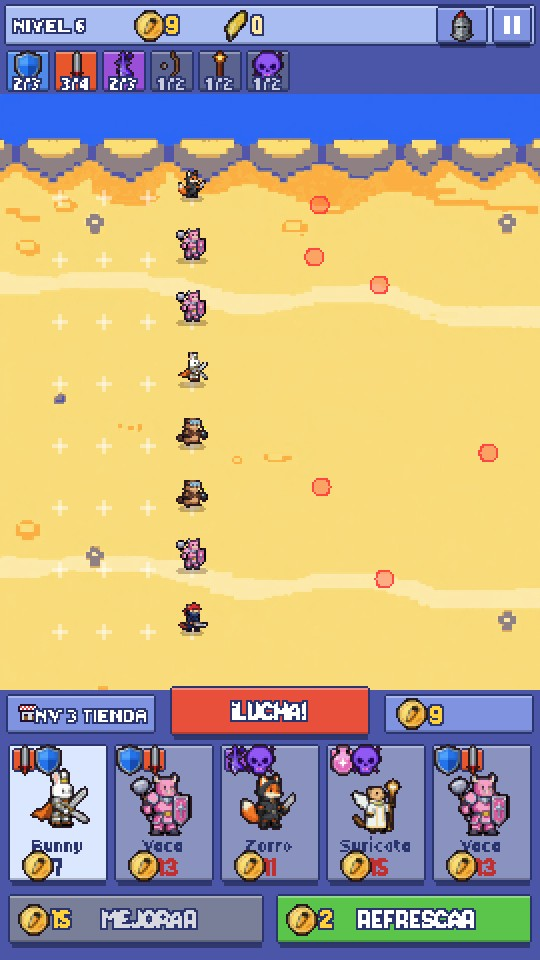
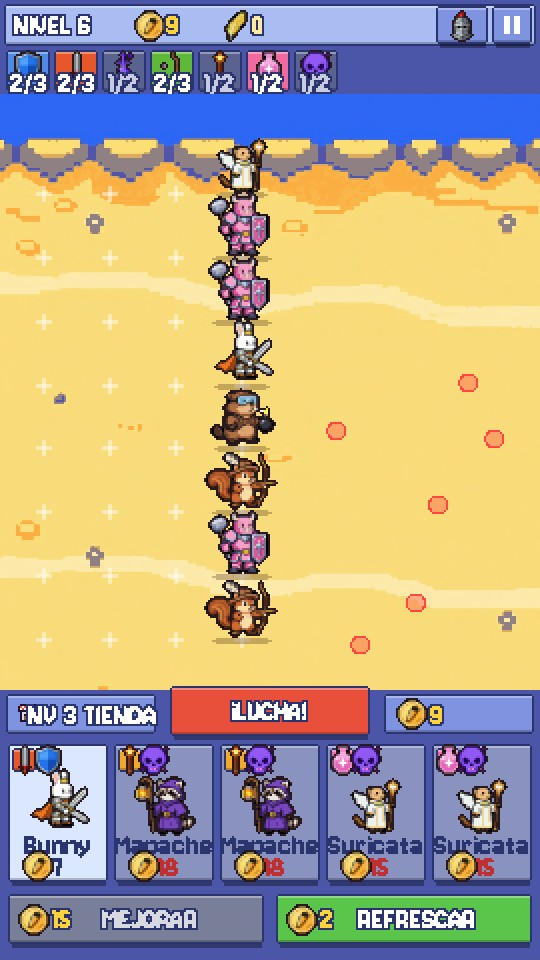
alfa 1324326: Fans of Asalto: llena toda la pantalla del móvil, muñecos y fondos de Yoshi a su

diff --git a/alfa/demos/asalto/css/asalto.css b/alfa/demos/asalto/css/asalto.css
@@ -16,10 +16,10 @@ body { background: #343c80; display: flex; align-items: center; justify-content:
 /* el contorno de pixel art del texto y los paneles con esquinas cortadas */
 .as-btn, .as-btn2, .as-tarjeta, .as-lema, .as-zona, .as-reliq, .as-guia {
   clip-path: polygon(4px 0, calc(100% - 4px) 0, 100% 4px, 100% calc(100% - 4px), calc(100% - 4px) 100%, 4px 100%, 0 calc(100% - 4px), 0 4px); }
-.as-btn, .as-btn2 { border: 0; padding: 12px 24px 14px; font-size: 24px; line-height: 1; min-width: 200px; background: var(--as-rojo);
+.as-btn, .as-btn2 { border: 0; padding: 12px 24px 14px; font-size: 31px; line-height: 1; min-width: 200px; background: var(--as-rojo);
   box-shadow: inset 0 0 0 3px var(--as-tinta), inset 0 6px 0 rgba(255, 255, 255, 0.3), inset 0 -8px 0 rgba(0, 0, 0, 0.25);
   text-shadow: 2px 0 0 var(--as-tinta), -2px 0 0 var(--as-tinta), 0 2px 0 var(--as-tinta), 0 -2px 0 var(--as-tinta), 2px 2px 0 var(--as-tinta), -2px -2px 0 var(--as-tinta), 2px -2px 0 var(--as-tinta), -2px 2px 0 var(--as-tinta); }
-.as-btn2 { font-size: 19px; padding: 10px 18px 12px; min-width: 150px; background: var(--as-verde); }
+.as-btn2 { font-size: 25px; padding: 10px 18px 12px; min-width: 150px; background: var(--as-verde); }
 .as-azul { background: var(--as-azul) !important; } .as-oro { background: #e8a81a !important; } .as-verde { background: var(--as-verde) !important; }
 .as-rojo { background: var(--as-rojo) !important; } .as-gris { background: #6a6f9a !important; }
 .as-btn:active, .as-btn2:active { transform: translateY(3px); }
@@ -33,28 +33,28 @@ body { background: #343c80; display: flex; align-items: center; justify-content:
 .as-logo { margin: 0 0 8px; font-size: 76px; line-height: 0.9; letter-spacing: 2px; text-align: center; color: var(--as-oro);
   text-shadow: 4px 0 0 var(--as-tinta), -4px 0 0 var(--as-tinta), 0 4px 0 var(--as-tinta), 0 -4px 0 var(--as-tinta), 4px 4px 0 var(--as-tinta), -4px -4px 0 var(--as-tinta), 4px -4px 0 var(--as-tinta), -4px 4px 0 var(--as-tinta), 0 10px 0 var(--as-tinta); }
 .as-logo small { display: block; font-size: 30px; color: #fff; letter-spacing: 6px; }
-.as-lema { margin: 0 0 8px; font-weight: 400; font-size: 17px; background: var(--as-panel); box-shadow: inset 0 0 0 3px var(--as-tinta); padding: 8px 16px 10px; }
+.as-lema { margin: 0 0 8px; font-weight: 400; font-size: 22px; background: var(--as-panel); box-shadow: inset 0 0 0 3px var(--as-tinta); padding: 8px 16px 10px; }
 .as-menu { display: grid; grid-template-columns: 1fr 1fr; gap: 10px; margin-top: 6px; }
 .as-pie { position: absolute; bottom: 120px; left: 0; right: 0; display: flex; justify-content: center; align-items: center; gap: 16px; }
-.as-gemas { display: inline-flex; align-items: center; gap: 6px; font-size: 22px; background: var(--as-fondo); padding: 8px 14px; box-shadow: inset 0 0 0 3px var(--as-tinta); }
+.as-gemas { display: inline-flex; align-items: center; gap: 6px; font-size: 29px; background: var(--as-fondo); padding: 8px 14px; box-shadow: inset 0 0 0 3px var(--as-tinta); }
 /* las ventanas */
 .as-modal { position: absolute; inset: 0; display: flex; align-items: center; justify-content: center; padding: 16px; box-sizing: border-box; background: rgba(10, 10, 40, 0.6); pointer-events: auto; z-index: 30; }
-.as-tarjeta { width: 100%; max-width: 480px; max-height: 900px; overflow: auto; background: var(--as-panel); box-shadow: inset 0 0 0 4px var(--as-tinta), inset 0 8px 0 rgba(255, 255, 255, 0.25), inset 0 -10px 0 rgba(0, 0, 0, 0.2); padding: 20px 20px 24px; box-sizing: border-box; text-align: center; font-size: 18px; color: #fff; }
+.as-tarjeta { width: 100%; max-width: 480px; max-height: 900px; overflow: auto; background: var(--as-panel); box-shadow: inset 0 0 0 4px var(--as-tinta), inset 0 8px 0 rgba(255, 255, 255, 0.25), inset 0 -10px 0 rgba(0, 0, 0, 0.2); padding: 20px 20px 24px; box-sizing: border-box; text-align: center; font-size: 23px; color: #fff; }
 .as-tarjeta h2 { margin: 0 0 10px; font-size: 30px; color: var(--as-oro); text-shadow: 3px 0 0 var(--as-tinta), -3px 0 0 var(--as-tinta), 0 3px 0 var(--as-tinta), 0 -3px 0 var(--as-tinta), 3px 3px 0 var(--as-tinta), -3px -3px 0 var(--as-tinta); }
 .as-tarjeta p { margin: 8px 0; text-shadow: 2px 2px 0 var(--as-tinta); }
-.as-sub { font-size: 15px; opacity: 0.9; }
+.as-sub { font-size: 20px; opacity: 0.9; }
 .as-ancha { max-width: 500px; }
 .as-ancha .opt-list { text-align: left; margin-top: 14px; }
 .as-cofre { display: flex; justify-content: center; margin: 6px 0; }
-.as-premio { font-size: 20px; }
+.as-premio { font-size: 26px; }
 .as-mas { color: var(--as-oro); font-size: 30px; }
 .as-zonas { display: grid; gap: 10px; margin: 10px 0 14px; }
-.as-zona { border: 0; padding: 14px; background: var(--as-panel2); box-shadow: inset 0 0 0 3px var(--as-tinta); text-align: left; display: grid; gap: 4px; font-size: 20px; }
-.as-zona small { font-size: 14px; opacity: 0.9; font-weight: 500; }
+.as-zona { border: 0; padding: 14px; background: var(--as-panel2); box-shadow: inset 0 0 0 3px var(--as-tinta); text-align: left; display: grid; gap: 4px; font-size: 26px; }
+.as-zona small { font-size: 18px; opacity: 0.9; font-weight: 500; }
 .as-zona.cerrada { background: #4a4f7a; opacity: 0.75; }
 .as-reliqs { display: grid; grid-template-columns: repeat(3, 1fr); gap: 8px; margin: 10px 0; }
-.as-reliq { border: 0; padding: 10px 6px 12px; background: var(--as-claro); color: var(--as-tinta) !important; box-shadow: inset 0 0 0 3px var(--as-tinta); display: grid; justify-items: center; gap: 6px; font-size: 15px; }
-.as-reliq small { font-size: 13px; font-weight: 500; line-height: 1.2; }
+.as-reliq { border: 0; padding: 10px 6px 12px; background: var(--as-claro); color: var(--as-tinta) !important; box-shadow: inset 0 0 0 3px var(--as-tinta); display: grid; justify-items: center; gap: 6px; font-size: 20px; }
+.as-reliq small { font-size: 17px; font-weight: 500; line-height: 1.2; }
 .as-reliq:active { transform: translateY(3px); }
 .as-datos { list-style: none; padding: 0; margin: 12px 0; display: grid; gap: 4px; }
 .as-niveles { list-style: none; padding: 0; margin: 10px 0; display: grid; gap: 6px; text-align: left; }
@@ -68,42 +68,42 @@ body { background: #343c80; display: flex; align-items: center; justify-content:
 .as-ad-cartel { display: inline-block; background: var(--as-oro); color: var(--as-tinta); padding: 4px 10px; font-weight: 400; }
 .as-ad-barra { height: 14px; background: var(--as-tinta); margin: 14px 0; padding: 3px; }
 .as-ad-barra i { display: block; height: 100%; width: 0; background: var(--as-oro); transition: width 0.9s steps(6); }
-.as-enlace { display: block; margin: 10px auto 6px; background: none; border: 0; text-decoration: underline; font-size: 15px; }
-.as-anuncio small { display: block; font-size: 12px; opacity: 0.8; }
+.as-enlace { display: block; margin: 10px auto 6px; background: none; border: 0; text-decoration: underline; font-size: 20px; }
+.as-anuncio small { display: block; font-size: 16px; opacity: 0.8; }
 /* la guía (MeerCat) */
 .as-guia { position: absolute; left: 10px; right: 10px; top: 470px; display: flex; gap: 10px; align-items: center; text-align: left; border: 0; padding: 10px 14px; background: #fff8e6; color: var(--as-tinta) !important;
-  box-shadow: inset 0 0 0 3px var(--as-tinta); font-size: 20px; font-weight: 400 !important; z-index: 20; }
+  box-shadow: inset 0 0 0 3px var(--as-tinta); font-size: 26px; font-weight: 400 !important; z-index: 20; }
 .as-guia.sale { animation: as-guia 0.3s steps(3); }
 @keyframes as-guia { from { transform: translateY(20px); opacity: 0; } to { transform: none; opacity: 1; } }
 #as-guia-cara { flex: none; width: 64px; height: 64px; }
 /* el equipo, la herrería, los logros y la tienda de fuera */
 .as-equipo { display: grid; grid-template-columns: 1fr 1fr; gap: 10px; align-items: start; }
 .as-huecos { display: grid; grid-template-columns: repeat(3, 1fr); gap: 6px; }
-.as-obj { border: 0; padding: 6px 4px; background: var(--as-claro); color: var(--as-tinta) !important; box-shadow: inset 0 0 0 3px var(--as-tinta); display: grid; justify-items: center; gap: 2px; font-size: 13px; line-height: 1.1; min-height: 78px; font-family: inherit; }
+.as-obj { border: 0; padding: 6px 4px; background: var(--as-claro); color: var(--as-tinta) !important; box-shadow: inset 0 0 0 3px var(--as-tinta); display: grid; justify-items: center; gap: 2px; font-size: 17px; line-height: 1.1; min-height: 78px; font-family: inherit; }
 .as-obj.r1 { box-shadow: inset 0 0 0 3px #2a6fd0; background: #cfe3ff; } .as-obj.r2 { box-shadow: inset 0 0 0 3px #8a2ad0; background: #e8cfff; }
 .as-obj.vacio { background: rgba(255, 255, 255, 0.18); box-shadow: inset 0 0 0 3px rgba(42, 53, 112, 0.5); color: #fff !important; }
 .as-obj small { font-weight: 400; } .as-obj .as-stat { color: #1d6b2a; }
 .as-obj:active { transform: translateY(3px); }
 .as-objs { display: flex; gap: 6px; justify-content: center; }
 .as-objs .as-obj { width: 110px; }
-.as-stats { list-style: none; padding: 0; margin: 0; display: grid; gap: 3px; text-align: left; font-size: 15px; }
+.as-stats { list-style: none; padding: 0; margin: 0; display: grid; gap: 3px; text-align: left; font-size: 20px; }
 .as-stats li { display: flex; justify-content: space-between; background: var(--as-panel2); padding: 4px 8px; box-shadow: inset 0 0 0 2px var(--as-tinta); }
 .as-mochila { display: grid; grid-template-columns: repeat(4, 1fr); gap: 6px; margin: 8px 0; }
 .as-forja { display: grid; grid-template-columns: 120px 1fr; gap: 10px; align-items: center; margin: 8px 0; background: var(--as-panel2); padding: 8px; box-shadow: inset 0 0 0 3px var(--as-tinta); }
 .as-forja-txt { display: grid; gap: 6px; }
-.as-logros { list-style: none; padding: 0; margin: 10px 0; display: grid; gap: 6px; text-align: left; font-size: 16px; }
+.as-logros { list-style: none; padding: 0; margin: 10px 0; display: grid; gap: 6px; text-align: left; font-size: 21px; }
 .as-logros li { display: flex; justify-content: space-between; align-items: center; gap: 8px; background: var(--as-panel2); padding: 8px 10px; box-shadow: inset 0 0 0 3px var(--as-tinta); }
 .as-logros li.hecho { opacity: 0.55; } .as-logros li.puede { background: #3f9a3a; }
-.as-logros .as-btn2 { min-width: 0; padding: 6px 12px 8px; font-size: 16px; }
+.as-logros .as-btn2 { min-width: 0; padding: 6px 12px 8px; font-size: 21px; }
 .as-plumas { display: inline-flex; align-items: center; gap: 4px; color: #ffe9a0; }
 .as-ico-pluma { display: inline-block; width: 12px; height: 12px; background: #ffd23a; box-shadow: inset 0 0 0 2px var(--as-tinta); }
 .as-ofertas { display: grid; gap: 8px; margin: 10px 0; }
-.as-oferta { border: 0; padding: 12px; background: var(--as-claro); color: var(--as-tinta) !important; box-shadow: inset 0 0 0 3px var(--as-tinta); display: grid; grid-template-columns: 48px 1fr auto; align-items: center; gap: 10px; text-align: left; font-size: 18px; font-family: inherit; }
-.as-oferta small { grid-column: 2; font-size: 14px; } .as-oferta b { grid-column: 2; } .as-oferta i { grid-row: 1 / 3; } .as-oferta .as-plumas { grid-column: 3; grid-row: 1 / 3; color: var(--as-tinta); font-size: 22px; }
+.as-oferta { border: 0; padding: 12px; background: var(--as-claro); color: var(--as-tinta) !important; box-shadow: inset 0 0 0 3px var(--as-tinta); display: grid; grid-template-columns: 48px 1fr auto; align-items: center; gap: 10px; text-align: left; font-size: 23px; font-family: inherit; }
+.as-oferta small { grid-column: 2; font-size: 18px; } .as-oferta b { grid-column: 2; } .as-oferta i { grid-row: 1 / 3; } .as-oferta .as-plumas { grid-column: 3; grid-row: 1 / 3; color: var(--as-tinta); font-size: 29px; }
 .as-oferta:disabled { opacity: 0.6; }
 .as-aviso { box-shadow: inset 0 0 0 3px var(--as-tinta), 0 0 0 4px var(--as-oro) !important; }
-.as-quien-h { display: grid; justify-items: center; font-size: 14px; } .as-quien-h.apagado { filter: grayscale(1) brightness(0.7); }
-.as-reliq em { font-style: normal; font-size: 12px; background: var(--as-tinta); color: #fff; padding: 1px 6px; }
-.as-pie-ad { display: block; margin-top: 6px; font-size: 13px; opacity: 0.85; }
+.as-quien-h { display: grid; justify-items: center; font-size: 18px; } .as-quien-h.apagado { filter: grayscale(1) brightness(0.7); }
+.as-reliq em { font-style: normal; font-size: 16px; background: var(--as-tinta); color: #fff; padding: 1px 6px; }
+.as-pie-ad { display: block; margin-top: 6px; font-size: 17px; opacity: 0.85; }
 /* el aviso y la ventana comunes de core (ligero.js) */
-#toast { font-family: 'Jersey 10', monospace; font-size: 24px; }
+#toast { font-family: 'Jersey 10', monospace; font-size: 31px; }

diff --git a/alfa/demos/asalto/js/principal.js b/alfa/demos/asalto/js/principal.js
@@ -7,21 +7,26 @@ const AS_TOQUE = { boton: null };
 const AS_DRAG = { h: null, mov: false, x: 0, y: 0, x0: 0, y0: 0, celda: null };
 
 function asAjusta() {
-  // El juego se pinta en 270x480 y se amplía un número ENTERO de veces en píxeles reales de la pantalla: así cada píxel del dibujo
-  // ocupa exactamente 2x2, 3x3 o 4x4 píxeles del móvil y nada sale borroso. Si la pantalla es muy pequeña, se amplía lo que quepa.
+  // El juego se pinta en un lienzo pequeño de 270 de ancho y se amplía un número ENTERO de veces en píxeles reales de la pantalla:
+  // así cada píxel del dibujo ocupa exactamente 3x3, 4x4… y nada sale borroso. El ALTO se adapta al móvil (de 440 a 640 píxeles):
+  // la pantalla se llena entera y lo que sobra se lo queda la arena.
   const dpr = window.devicePixelRatio || 1, bw = document.body.clientWidth, bh = document.body.clientHeight, pad = bw < 600 ? 0 : 20;
   const maxW = (bw - pad * 2) * dpr, maxH = (bh - pad * 2) * dpr;
-  const k = Math.floor(Math.min(maxW / 270, maxH / 480));
-  let devW, devH;
-  if (k >= 2) { devW = 270 * k; devH = 480 * k; }
-  else { const s = Math.min(maxW / 270, maxH / 480); devW = Math.max(270, Math.floor(270 * s)); devH = Math.round(devW * 480 / 270); }
+  const k = Math.floor(Math.min(maxW / 270, maxH / 440));
+  let devW, devH, alto;
+  if (k >= 2) { alto = clamp(Math.floor(maxH / k), 440, 640); devW = 270 * k; devH = alto * k; }
+  else { alto = 480; const s = Math.min(maxW / 270, maxH / 480); devW = Math.max(270, Math.floor(270 * s)); devH = Math.round(devW * 480 / 270); }
   const w = devW / dpr, h = devH / dpr;
   const st = AS_ESCENARIO.style;
   st.width = w + 'px'; st.height = h + 'px';
   st.position = 'absolute';   // en un píxel entero de la pantalla, para que el navegador no lo vuelva a muestrear
   st.left = Math.round((bw - w) / 2 * dpr) / dpr + 'px'; st.top = Math.round((bh - h) / 2 * dpr) / dpr + 'px';
-  AS_V.sc = w / 540; AS_V.dpr = dpr;
+  AS_V.sc = w / 540; AS_V.dpr = dpr; AS_V.H = alto * 2;
   AS_CV.width = devW; AS_CV.height = devH;
+  AS_BUF.width = 270; AS_BUF.height = alto;
+  // el panel de abajo mide siempre lo mismo (270); la arena se estira con el resto
+  AS_Y = AS_V.H - 270; AS_ARENA.h = AS_Y - AS_ARENA.y;
+  AS_UI.style.height = AS_V.H + 'px';
   AS_UI.style.zoom = w / 540;   // zoom (no transform): el navegador vuelve a dibujar las letras a su tamaño y no las emborrona
 }
 function asLogico(e) { const r = AS_CV.getBoundingClientRect(); return [(e.clientX - r.left) / AS_V.sc, (e.clientY - r.top) / AS_V.sc]; }
@@ -94,18 +99,18 @@ document.addEventListener('keydown', e => {
 
 /* ---------- la portada (detrás del menú) ---------- */
 function asPintaPortada(c, t) {
-  c.fillStyle = '#2b2d6b'; c.fillRect(0, 0, 540, 960);
+  c.fillStyle = '#2b2d6b'; c.fillRect(0, 0, 540, AS_V.H);
   c.imageSmoothingEnabled = false;
-  if (AS_IMG.portada) { const im = AS_IMG.portada, h = im.height * 2; c.drawImage(im, 0, 0, im.width, im.height, 0, Math.min(0, 960 - h), 540, h); }
+  if (AS_IMG.portada) { const im = AS_IMG.portada, h = im.height * 2; c.drawImage(im, 0, 0, im.width, im.height, 0, Math.min(0, AS_V.H - h), 540, h); }
   // el desfile de los Animales Locos por abajo
   const lista = Object.keys(AS_HEROES).filter(asHay);
-  lista.forEach((k, i) => { const x = ((t * 40 + i * 60) % 620) - 40; asPintaMuneco(c, { tipo: k, anim: 'andar', tAnim: t + i * 0.3, lado: 'heroe', id: i, escala: 1.6 }, x, 930, t); });
+  lista.forEach((k, i) => { const x = ((t * 40 + i * 60) % 620) - 40; asPintaMuneco(c, { tipo: k, anim: 'andar', tAnim: t + i * 0.3, lado: 'heroe', id: i, escala: 1.6 }, x, AS_V.H - 30, t); });
 }
 
 /* ---------- el bucle ---------- */
 // Todo se pinta en un lienzo pequeño (270x480, la mitad) y se amplía sin suavizar: así el texto, las sombras, los giros y los
 // efectos salen con los mismos píxeles gordos que los dibujos de Yoshi. Nada se ve liso ni vectorial.
-const AS_BUF = document.createElement('canvas'); AS_BUF.width = 270; AS_BUF.height = 480;
+const AS_BUF = document.createElement('canvas'); AS_BUF.width = 270; AS_BUF.height = 480;   // el alto lo pone asAjusta
 const AS_BCTX = AS_BUF.getContext('2d');
 // En el lienzo pequeño (que se pinta con medidas de 540x960 y escala 0.5) cada rectángulo se encaja en su píxel: si cayera en medio
 // píxel, el navegador lo suavizaría y saldría un borde borroso.
@@ -149,7 +154,7 @@ function asArranque() {
   asCargaIconos();
   // las letras de píxeles: el texto se guarda ya dibujado (AS_TXT), así que hay que esperar a que lleguen; si llegan tarde, se borra lo guardado
   if (document.fonts) document.fonts.addEventListener('loadingdone', () => AS_TXT.clear());
-  const letras = document.fonts ? Promise.race([Promise.all(['16px "Jersey 10"', '32px "Jersey 10"', '10px Tiny5'].map(f => document.fonts.load(f))), new Promise(r => setTimeout(r, 2500))]) : Promise.resolve();
+  const letras = document.fonts ? Promise.race([Promise.all(['16px "Jersey 10"', '32px "Jersey 10"'].map(f => document.fonts.load(f))), new Promise(r => setTimeout(r, 2500))]) : Promise.resolve();
   asCargaImagenes(() => letras.then(() => {
     AS_TXT.clear();
     asMenu();

diff --git a/alfa/index.html b/alfa/index.html
@@ -10,10 +10,10 @@
 <link rel="preconnect" href="https://fonts.googleapis.com">
 <link rel="preconnect" href="https://fonts.gstatic.com" crossorigin>
 <link rel="stylesheet" href="https://fonts.googleapis.com/css2?family=Baloo+2:wght@600;700;800&family=Luckiest+Guy&display=swap">
-<link rel="stylesheet" href="core/css/base.css?v=25d404d">
-<link rel="stylesheet" href="biblioteca/tienda.css?v=25d404d">
-<link rel="stylesheet" href="novedades/ventana.css?v=25d404d">
-<link rel="stylesheet" href="biblioteca/votos.css?v=25d404d">
+<link rel="stylesheet" href="core/css/base.css?v=1324326">
+<link rel="stylesheet" href="biblioteca/tienda.css?v=1324326">
+<link rel="stylesheet" href="novedades/ventana.css?v=1324326">
+<link rel="stylesheet" href="biblioteca/votos.css?v=1324326">
 <style>
   /* la entrada de la web: una tarjeta por juego, con los colores y las letras de core */
   body { overflow: auto; touch-action: auto; align-items: flex-start; background-repeat: no-repeat; background-attachment: fixed; }
@@ -61,7 +61,7 @@
 </style>
 </head>
 <body>
-<script src="menu.js?v=25d404d" data-base="" data-core="1" data-pagina=""></script>
+<script src="menu.js?v=1324326" data-base="" data-core="1" data-pagina=""></script>
 <div class="nov-fondo" id="novedades" hidden>
   <div class="nov-caja" role="dialog" aria-modal="true" aria-labelledby="nov-titulo">
     <div class="nov-cabeza"><h2 class="ol" id="nov-titulo">NOVEDADES</h2><p id="nov-sub"></p></div>
@@ -339,8 +339,8 @@
   </section>
   <p class="note" id="pie-fansof">Fans Of™ · © 2026 Arkioner y Pepins · MicroBlizz · Todos los derechos reservados</p>
 </main>
-<script src="core/js/nucleo.js?v=0-a688.25d404d"></script>
-<script src="core/js/novedades.js?v=25d404d"></script>
+<script src="core/js/nucleo.js?v=0-a689.1324326"></script>
+<script src="core/js/novedades.js?v=1324326"></script>
 <script>
 // La cuenta de la web es la misma de los juegos (core/js/sistema/cuenta.js, mismo navegador = misma sesión). Aquí no hay partida que subir.
 const AJUSTES = { id: 'web', guardado: 'fansof-web' }, SAVE_KEY = AJUSTES.guardado, SAVE = {};
@@ -349,7 +349,7 @@ const HOOKS = {};
 function hook(name, fn) { (HOOKS[name] = HOOKS[name] || []).push(fn); }
 function fire(name, ...a) { let out = ''; for (const fn of HOOKS[name] || []) { const r = fn(...a); if (typeof r === 'string') out += r; } return out; }
 </script>
-<script src="core/js/sistema/cuenta.js?v=25d404d"></script>
+<script src="core/js/sistema/cuenta.js?v=1324326"></script>
 <script>NUCLEO.idiomaSolo({ en: ['core/idioma/en-raiz.js', 'novedades/en.js', 'biblioteca/en.js','games/rumble/idioma/en-7.js', 'games/td/idioma/en-2.js', 'games/survivors/idioma/en.js', 'games/crush/idioma/en-raiz.js', 'games/jump/idioma/en-raiz.js', 'games/taxi/idioma/en-raiz.js', 'games/dark/idioma/en-raiz.js', 'games/nova/idioma/en-raiz.js', 'demos/beams/idioma/en-raiz.js', 'demos/snakes/idioma/en-raiz.js', 'demos/merge/idioma/en-raiz.js', 'demos/swipe/idioma/en-raiz.js', 'demos/pop/idioma/en-raiz.js', 'demos/vikings/idioma/en-raiz.js', 'demos/goose/idioma/en-raiz.js', 'demos/asalto/idioma/en-raiz.js', 'demos/auto/idioma/en-raiz.js', 'games/island/idioma/en-raiz.js', 'demos/rumble-3d/idioma/en-raiz.js', 'demos/roguelite/idioma/en-raiz.js', 'demos/tactics-advance/idioma/en-raiz.js', 'games/rouflage/idioma/en-raiz.js', 'demos/dungeons/idioma/en-raiz.js', 'games/karts/idioma/en-raiz.js', 'demos/recruit/idioma/en-raiz.js', 'demos/terminal-shock/idioma/en-raiz.js', 'games/ratkov/idioma/en-raiz.js'] })</script>
 <script>
 // La versión y las novedades salen de los archivos de cada juego, así que esta página nunca se queda atrás.
@@ -375,14 +375,14 @@ const fail = id => () => {
 };
 
 </script>
-<script src="core/js/proximamente.js?v=25d404d"></script>
-<script src="novedades/ventana.js?v=25d404d"></script>
-<script src="biblioteca/tienda.js?v=25d404d"></script>
-<script src="core/js/sistema/beta.js?v=25d404d"></script>
-<script src="biblioteca/cuenta-web.js?v=25d404d"></script>
-<script src="biblioteca/votos.js?v=25d404d"></script>
-<script src="biblioteca/alfa.js?v=25d404d"></script>
-<script src="core/js/sistema/analitica.js?v=25d404d"></script>
-<script src="pie.js?v=25d404d" defer></script>
+<script src="core/js/proximamente.js?v=1324326"></script>
+<script src="novedades/ventana.js?v=1324326"></script>
+<script src="biblioteca/tienda.js?v=1324326"></script>
+<script src="core/js/sistema/beta.js?v=1324326"></script>
+<script src="biblioteca/cuenta-web.js?v=1324326"></script>
+<script src="biblioteca/votos.js?v=1324326"></script>
+<script src="biblioteca/alfa.js?v=1324326"></script>
+<script src="core/js/sistema/analitica.js?v=1324326"></script>
+<script src="pie.js?v=1324326" defer></script>
 </body>
 </html>

diff --git a/alfa/demos/asalto/js/pintar.js b/alfa/demos/asalto/js/pintar.js
@@ -4,10 +4,10 @@
 // la escena del cofre. Cada botón se apunta en AS_BOTONES al pintarlo, para saber qué se ha tocado.
 'use strict';
 const AS_V = { H: 960, sc: 1, dpr: 1 };
-// Dos letras de píxeles hechas para tamaños pequeños: Tiny5 (10 píxeles) para lo pequeño y Jersey 10 (16 píxeles) para títulos y botones.
+// La letra de píxeles Jersey 10, siempre a su tamaño natural (16, o 32 en lo grande): así cada trazo cae en un píxel entero y se lee en el móvil.
 // Siempre a su tamaño natural, así cada trazo cae en un píxel entero.
-const AS_FUENTE = '"Jersey 10", "Courier New", monospace', AS_FUENTE_PEQ = 'Tiny5, "Courier New", monospace';
-function asFuenteDe(tam) { return tam <= 18 ? `10px ${AS_FUENTE_PEQ}` : tam <= 34 ? `16px ${AS_FUENTE}` : `32px ${AS_FUENTE}`; }
+const AS_FUENTE = '"Jersey 10", "Courier New", monospace';
+function asFuenteDe(tam) { return tam <= 34 ? `16px ${AS_FUENTE}` : `32px ${AS_FUENTE}`; }   // la de 10 no se leía en el móvil: todo va como mínimo a 16
 let AS_BOTONES = [];
 // colores claros, como el juego de referencia: paneles azul celeste con borde azul oscuro, fondo azul, luchar rojo, mejorar rosa, refrescar verde
 const AS_COL = { tinta: '#2a3570', panel: '#a9bdf2', panel2: '#7f93e0', claro: '#dbe6ff', oscuro: '#55659e', fondo: '#4c56a8', rojo: '#e8503c', rosa: '#ff6a8a', verde: '#5bc44a', naranja: '#f08a2a', oro: '#ffd23a', gris: '#5a628f' };
@@ -122,10 +122,20 @@ function asPintaMarcador(c) {
 
 /* ---------- en medio: la arena ---------- */
 function asPintaSuelo(c, img, dy) {
+  // el dibujo de Yoshi va a su tamaño (cada píxel suyo = 2 unidades = 1 píxel del lienzo pequeño): la parte de arriba (la orilla) arriba,
+  // la de abajo abajo y, si la arena es más alta que el dibujo, el centro se repite en medio
   const A = AS_ARENA, im = AS_IMG[img];
   c.imageSmoothingEnabled = false;
-  if (im) { const h = Math.round(im.height * 540 / im.width); c.drawImage(im, 0, A.y + (dy || 0), 540, h); if (h < A.h) c.drawImage(im, 0, A.y + h + (dy || 0), 540, h); }
-  else { c.fillStyle = '#e2b268'; c.fillRect(0, A.y, 540, A.h); }
+  if (!im) { c.fillStyle = '#e2b268'; c.fillRect(0, A.y, 540, A.h); return; }
+  const H = im.height, y0 = A.y + (dy || 0);
+  if (img === 'pasillo') { for (let y = y0; y < A.y + A.h; y += H * 2) c.drawImage(im, 0, y, 540, H * 2); return; }   // se repite entero
+  if (H * 2 >= A.h) { c.drawImage(im, 0, y0, 540, H * 2); return; }
+  const arr = Math.floor(H * 0.55), aba = Math.floor(H * 0.3), med = H - arr - aba;
+  c.drawImage(im, 0, 0, im.width, arr, 0, y0, 540, arr * 2);
+  let y = y0 + arr * 2;
+  const fin = A.y + A.h - aba * 2;
+  while (y < fin) { const t = Math.min(med, (fin - y) / 2); c.drawImage(im, 0, arr, im.width, t, 0, y, 540, t * 2); y += t * 2; }
+  c.drawImage(im, 0, H - aba, im.width, aba, 0, fin, 540, aba * 2);
 }
 function asPintaFlecha(c, x, y, dir, t) {
   const b = Math.round(Math.sin(t * 7) * 3) * 2, L = 36, k = AS_COL.tinta;
@@ -216,7 +226,7 @@ function asPintaArena(c, t) {
 }
 
 /* ---------- abajo: tienda, batalla, mapa o la escena del cofre ---------- */
-const AS_Y = 690;
+let AS_Y = 690;   // dónde empieza el panel de abajo (lo pone asAjusta: siempre 270 antes del final)
 function asPintaTienda(c, t) {
   const P = AS_P, Y = AS_Y;
   c.fillStyle = AS_COL.fondo; c.fillRect(0, Y, 540, AS_V.H - Y);

diff --git a/alfa/demos/asalto/js/sprites.js b/alfa/demos/asalto/js/sprites.js
@@ -1,9 +1,9 @@
 // Fans of Asalto · SPRITES: carga las tiras de img/ (pixel art de Yoshi, reducido con herramientas/comfyui/asalto/sprites.py) y pinta
 // a cada muñeco en su animación: reposo, andar, ataque, golpe y muerte. Si a un personaje aún le falta algún fotograma, se suple
 // moviendo su dibujo por código (botar, estirarse, embestir, parpadear). Nunca se voltea un dibujo: los héroes miran a la derecha
-// y los enemigos a la izquierda, así el arma no cambia de mano. Todo se pinta al doble (AS_PX) y sin suavizar.
+// y los enemigos a la izquierda, así el arma no cambia de mano. Todo se pinta a su tamaño real (AS_PX) y sin suavizar.
 'use strict';
-const AS_PX = 1;   // los muñecos a su tamaño (unos 14 píxeles de alto en el lienzo pequeño), como en el juego de referencia
+const AS_PX = 2;   // los muñecos a su tamaño real: cada píxel suyo es un píxel del lienzo pequeño (antes iban a la mitad y perdían píxeles)
 const AS_IMG = {};
 const AS_BLANCO = {};   // la misma tira en blanco, para el destello al recibir un golpe
 function asCargaImagenes(listo) {
@@ -43,7 +43,7 @@ function asCuadro(tipo, anim, tiempo, dura) {
 // Pinta un muñeco con los pies en (x, y). u: { tipo, anim, tAnim, dura, destello, escala, alfa, lado }.
 function asPintaMuneco(c, u, x, y, t) {
   if (!asHay(u.tipo)) return;
-  const d = AS_TIRAS[u.tipo], esc = Math.max(1, Math.round(AS_PX * (u.escala || 1))), w = d.w * esc, h = d.h * esc;   // múltiplo de 2: píxeles enteros
+  const d = AS_TIRAS[u.tipo], esc = AS_PX * Math.max(1, Math.round(u.escala || 1)), w = d.w * esc, h = d.h * esc;   // siempre un número entero de píxeles del lienzo pequeño
   const f = asCuadro(u.tipo, u.anim, u.tAnim || 0, u.dura);
   const hacia = u.lado === 'heroe' ? 1 : -1;
   // movimiento por código cuando falta el fotograma propio (y un poco siempre, para que no se vea rígido)
@@ -71,7 +71,7 @@ function asPintaMuneco(c, u, x, y, t) {
   c.restore();
 }
 // El alto en pantalla de un muñeco (para la barra de vida y los números)
-function asAltoMuneco(tipo, escala) { return asHay(tipo) ? AS_TIRAS[tipo].h * AS_PX * (escala || 1) : 50; }
+function asAltoMuneco(tipo, escala) { return asHay(tipo) ? AS_TIRAS[tipo].h * AS_PX * Math.max(1, Math.round(escala || 1)) : 50; }
 // Un retrato quieto (tienda, ventanas): el primer fotograma cabido en una caja de lado L
 function asRetrato(c, tipo, cx, cy, L) {
   if (!asHay(tipo)) return;

diff --git a/alfa/demos/asalto/js/combate.js b/alfa/demos/asalto/js/combate.js
@@ -5,7 +5,7 @@
 'use strict';
 const AS_ARENA = { x: 0, y: 94, w: 540, h: 596 };
 // el centro (los pies) de cada casilla de la cuadrícula de los héroes
-function asCelda(col, fila) { return [60 + col * 44, AS_ARENA.y + 104 + fila * 62]; }   // debajo de la orilla de la arena
+function asCelda(col, fila) { return [44 + col * 66, AS_ARENA.y + 100 + Math.round(fila * (AS_ARENA.h - 150) / 7 / 2) * 2]; }   // 4 columnas x 8 filas repartidas por el alto de la arena
 let AS_B = null;   // la batalla en curso
 let AS_ID = 0;
 
@@ -177,7 +177,7 @@ function asAvanzaUnidad(u, dt) {
 function asSepara(dt) {
   const v = AS_B.u.filter(u => !u.muerta);
   for (let i = 0; i < v.length; i++) for (let j = i + 1; j < v.length; j++) {
-    const a = v[i], b = v[j], dx = b.x - a.x, dy = b.y - a.y, d = Math.hypot(dx, dy) || 0.01, min = 14 * Math.max(a.escala, b.escala);
+    const a = v[i], b = v[j], dx = b.x - a.x, dy = b.y - a.y, d = Math.hypot(dx, dy) || 0.01, min = 22 * Math.max(a.escala, b.escala);
     if (d < min) { const p = (min - d) / 2 * Math.min(1, dt * 12); a.x -= dx / d * p; a.y -= dy / d * p; b.x += dx / d * p; b.y += dy / d * p; }
   }
   for (const u of v) { u.x = clamp(u.x, 20, AS_ARENA.w - 20); u.y = clamp(u.y, AS_ARENA.y + 90, AS_ARENA.y + AS_ARENA.h - 6); }

diff --git a/alfa/games/rouflage/index.html b/alfa/games/rouflage/index.html
@@ -10,7 +10,7 @@
 <link rel="preconnect" href="https://fonts.googleapis.com">
 <link rel="preconnect" href="https://fonts.gstatic.com" crossorigin>
 <link rel="stylesheet" href="https://fonts.googleapis.com/css2?family=Baloo+2:wght@600;700;800&family=Luckiest+Guy&display=swap">
-<script src="../../core/js/nucleo.js?v=0.2.63-a688.25d404d"></script>
+<script src="../../core/js/nucleo.js?v=0.2.63-a689.1324326"></script>
 <script>NUCLEO.estilos('../../core/css/base.css', '../../core/css/menus.css', '../../core/css/menus-extra.css')</script>
 <script>NUCLEO.estilos('estilo.css', 'estilo-taller.css', 'estilo-pantallas.css', 'estilo-pvp.css', 'estilo-armario.css', 'estilo-menus.css', 'estilo-misiones.css', 'estilo-escenario.css', 'estilo-votos.css', 'estilo-gacha.css', 'estilo-compra.css', 'estilo-fin.css', 'estilo-talentos.css', 'estilo-chat.css', 'estilo-titulo.css', 'estilo-barra.css', 'estilo-sala-viva.css', 'estilo-obra.css', 'estilo-ayuda.css', 'estilo-carga.css')</script>      <!-- la intro, la última: pisa el #carga de estilo.css (antes iba en línea dentro de #carga) -->
 </head>

diff --git a/alfa/demos/asalto/index.html b/alfa/demos/asalto/index.html
@@ -8,9 +8,9 @@
 <meta name="description" content="Fans of Asalto: compra a los Animales Locos en la tienda (tantas veces como quieras), combina sus 7 clases y baja nivel a nivel por la mazmorra de Microblizz en batallas automáticas hasta el jefe.">
 <link rel="preconnect" href="https://fonts.googleapis.com">
 <link rel="preconnect" href="https://fonts.gstatic.com" crossorigin>
-<link rel="stylesheet" href="https://fonts.googleapis.com/css2?family=Jersey+10&family=Tiny5&display=swap">
+<link rel="stylesheet" href="https://fonts.googleapis.com/css2?family=Jersey+10&display=swap">
 <!-- ?v= es la versión de la demo: súbela al publicar -->
-<script src="../../core/js/nucleo.js?v=0.2.0-a688.25d404d"></script>
+<script src="../../core/js/nucleo.js?v=0.2.0-a689.1324326"></script>
 <script>NUCLEO.estilos('../../core/css/base.css', '../../core/css/menus.css', 'css/asalto.css')</script>
 </head>
 <body>

diff --git a/alfa/games/karts/index.html b/alfa/games/karts/index.html
@@ -8,7 +8,7 @@
 <meta name="description" content="Fans of Karts (juego): carreras de karts en pixel art de consola portátil con los líderes de Fans of Rumble. Tres pistas, seis pilotos, objetos con mala idea y Microblizz, que ha comprado la carrera.">
 <link rel="icon" type="image/png" href="img/icon-192.png">
 <link rel="apple-touch-icon" href="img/icon-192.png">
-<script src="../../core/js/nucleo.js?v=0.7.15-a688.25d404d"></script>
+<script src="../../core/js/nucleo.js?v=0.7.15-a689.1324326"></script>
 <script>NUCLEO.estilos('../../core/css/base.css', '../../core/css/menus.css', '../../core/css/menus-tienda.css', '../../core/css/menus-extra.css', 'css/tienda.css', 'css/pvp.css')</script>
 <link rel="stylesheet" href="https://fonts.googleapis.com/css2?family=Baloo+2:wght@600;700;800&family=Luckiest+Guy&display=swap">
 <style>

diff --git a/alfa/games/dark/index.html b/alfa/games/dark/index.html
@@ -12,7 +12,7 @@
 <link rel="stylesheet" href="https://fonts.googleapis.com/css2?family=Baloo+2:wght@600;700;800&family=Luckiest+Guy&family=Press+Start+2P&family=Pixelify+Sans:wght@400;600;700&display=swap">
 <link rel="stylesheet" href="css/dark.css?v=0.2.4">
 <!-- Prototipo: no usa NUCLEO (tiene su propia partida guardada). Carga de core el arte, la música, los efectos y las cifras del Rumble.
-     VERSIÓN para desplegar.py (que la busca así): nucleo.js?v=0.2.7-a688.25d404d' (aquí solo se anota; súbela junto al ?v= de los scripts). -->
+     VERSIÓN para desplegar.py (que la busca así): nucleo.js?v=0.2.7-a689.1324326' (aquí solo se anota; súbela junto al ?v= de los scripts). -->
 </head>
 <body>
 <canvas id="cv" aria-label="Mazmorra"></canvas>

diff --git a/alfa/games/rumble/index.html b/alfa/games/rumble/index.html
@@ -16,7 +16,7 @@
 <link rel="preconnect" href="https://fonts.gstatic.com" crossorigin>
 <link rel="stylesheet" href="https://fonts.googleapis.com/css2?family=Baloo+2:wght@600;700;800&family=Luckiest+Guy&display=swap">
 <!-- core/js/nucleo.js carga lo común y el juego. LA VERSIÓN SE ESCRIBE SOLO AQUÍ, en su ?v= -->
-<script src="../../core/js/nucleo.js?v=0.9.158-a688.25d404d"></script>
+<script src="../../core/js/nucleo.js?v=0.9.158-a689.1324326"></script>
 <script>NUCLEO.estilos('../../core/css/menus.css', 'css/estilos-partida.css', 'css/estilos-extra.css', 'css/arena.css', '../../core/css/biblioteca.css', 'css/facciones-y-jefes.css', '../../core/css/clasificacion.css', 'css/frases.css', 'css/mitica.css', 'css/paletas.css')</script>
 
 </head>

diff --git a/alfa/games/jump/index.html b/alfa/games/jump/index.html
@@ -12,7 +12,7 @@
 <link rel="preconnect" href="https://fonts.gstatic.com" crossorigin>
 <link rel="stylesheet" href="https://fonts.googleapis.com/css2?family=Baloo+2:wght@600;700;800&family=Luckiest+Guy&display=swap">
 <!-- ?v= es la versión del juego (la misma en la web y en la app): súbela al publicar y pon su entrada en js/novedades.js -->
-<script src="../../core/js/nucleo.js?v=0.3.16-a688.25d404d"></script>
+<script src="../../core/js/nucleo.js?v=0.3.16-a689.1324326"></script>
 <script>NUCLEO.estilos('../../core/css/base.css', '../../core/css/menus.css')</script>
 <style>
 /* Fans of Jump: un solo canvas a la resolución real de la pantalla, con los dibujos 3D. El mundo mide unos 200 de ancho y se
